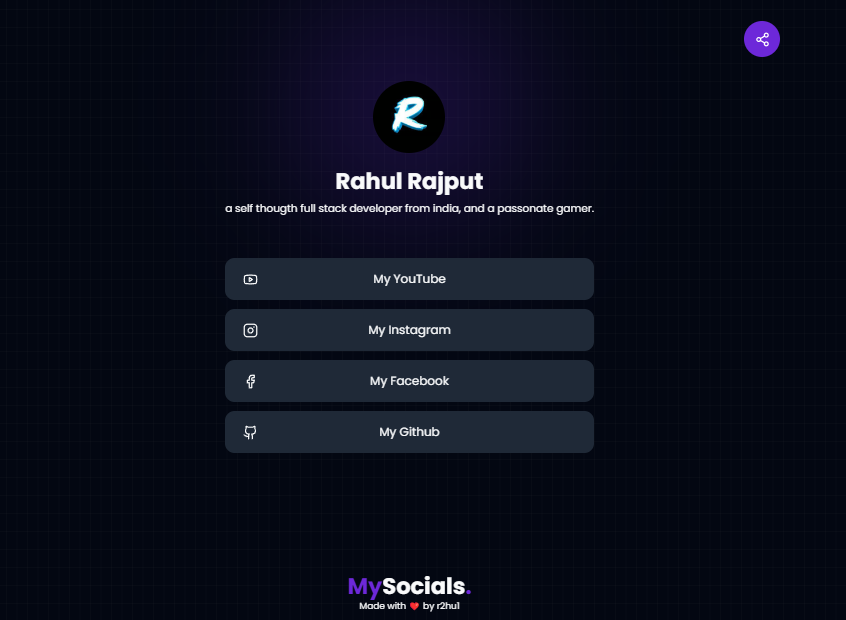
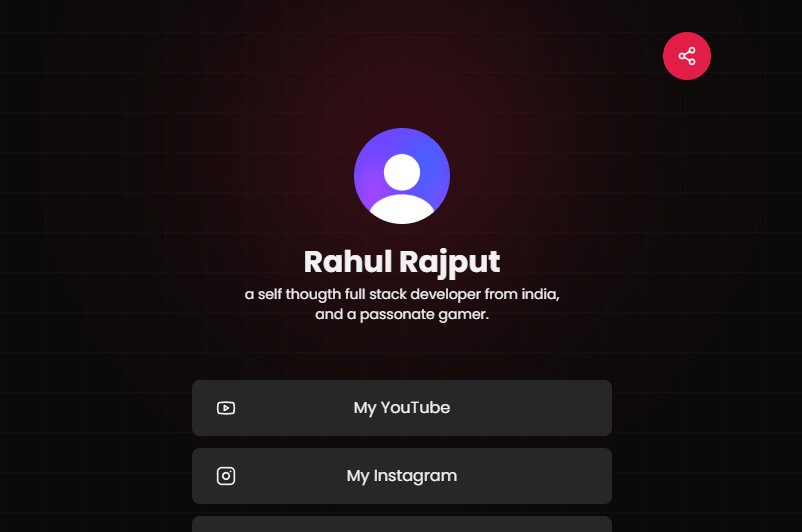
changed theme, organized routes

diff --git a/app/globals.css b/app/globals.css
@@ -2,50 +2,51 @@
 @tailwind components;
 @tailwind utilities;
 
+
 @layer base {
   :root {
     --background: 0 0% 100%;
-    --foreground: 224 71.4% 4.1%;
+    --foreground: 240 10% 3.9%;
     --card: 0 0% 100%;
-    --card-foreground: 224 71.4% 4.1%;
+    --card-foreground: 240 10% 3.9%;
     --popover: 0 0% 100%;
-    --popover-foreground: 224 71.4% 4.1%;
-    --primary: 262.1 83.3% 57.8%;
-    --primary-foreground: 210 20% 98%;
-    --secondary: 220 14.3% 95.9%;
-    --secondary-foreground: 220.9 39.3% 11%;
-    --muted: 220 14.3% 95.9%;
-    --muted-foreground: 220 8.9% 46.1%;
-    --accent: 220 14.3% 95.9%;
-    --accent-foreground: 220.9 39.3% 11%;
+    --popover-foreground: 240 10% 3.9%;
+    --primary: 346.8 77.2% 49.8%;
+    --primary-foreground: 355.7 100% 97.3%;
+    --secondary: 240 4.8% 95.9%;
+    --secondary-foreground: 240 5.9% 10%;
+    --muted: 240 4.8% 95.9%;
+    --muted-foreground: 240 3.8% 46.1%;
+    --accent: 240 4.8% 95.9%;
+    --accent-foreground: 240 5.9% 10%;
     --destructive: 0 84.2% 60.2%;
-    --destructive-foreground: 210 20% 98%;
-    --border: 220 13% 91%;
-    --input: 220 13% 91%;
-    --ring: 262.1 83.3% 57.8%;
-    --radius: 0.8rem;
+    --destructive-foreground: 0 0% 98%;
+    --border: 240 5.9% 90%;
+    --input: 240 5.9% 90%;
+    --ring: 346.8 77.2% 49.8%;
+    --radius: 0.5rem;
   }
 
   .dark {
-    --background: 224 71.4% 4.1%;
-    --foreground: 210 20% 98%;
-    --card: 224 71.4% 4.1%;
-    --card-foreground: 210 20% 98%;
-    --popover: 224 71.4% 4.1%;
-    --popover-foreground: 210 20% 98%;
-    --primary: 263.4 70% 50.4%;
-    --primary-foreground: 210 20% 98%;
-    --secondary: 215 27.9% 16.9%;
-    --secondary-foreground: 210 20% 98%;
-    --muted: 215 27.9% 16.9%;
-    --muted-foreground: 217.9 10.6% 64.9%;
-    --accent: 215 27.9% 16.9%;
-    --accent-foreground: 210 20% 98%;
+    --background: 20 14.3% 4.1%;
+    --foreground: 0 0% 95%;
+    --card: 24 9.8% 10%;
+    --card-foreground: 0 0% 95%;
+    --popover: 0 0% 9%;
+    --popover-foreground: 0 0% 95%;
+    --primary: 346.8 77.2% 49.8%;
+    --primary-foreground: 355.7 100% 97.3%;
+    --secondary: 240 3.7% 15.9%;
+    --secondary-foreground: 0 0% 98%;
+    --muted: 0 0% 15%;
+    --muted-foreground: 240 5% 64.9%;
+    --accent: 12 6.5% 15.1%;
+    --accent-foreground: 0 0% 98%;
     --destructive: 0 62.8% 30.6%;
-    --destructive-foreground: 210 20% 98%;
-    --border: 215 27.9% 16.9%;
-    --input: 215 27.9% 16.9%;
-    --ring: 263.4 70% 50.4%;
+    --destructive-foreground: 0 85.7% 97.3%;
+    --border: 240 3.7% 15.9%;
+    --input: 240 3.7% 15.9%;
+    --ring: 346.8 77.2% 49.8%;
   }
 }
 

diff --git a/app/(user)/dashboard/profile/page.jsx b/app/(user)/dashboard/profile/page.jsx
@@ -1,5 +1,3 @@
-import Footer from "@/components/Footer";
-import Header from "../../_components/Header";
 import TopNav from "../../_components/TopNav";
 import { Input } from "@/components/ui/input";
 import { ClerkLoaded, ClerkLoading, currentUser } from "@clerk/nextjs";
@@ -19,7 +17,6 @@ export default async function Page() {
 
     return (
         <div>
-            <Header />
             <TopNav active={["Profile"]} link="" />
 
             <div className="py-10 px-7 md:px-20 lg:px-32 mb-14">
@@ -36,16 +33,16 @@ export default async function Page() {
                 <ClerkLoaded>
                     <div className="grid gap-2 mt-5 lg:px-40">
                         <Label htmlFor="firstName" className="mt-3">First Name</Label>
-                        <Input id="firstName" value={firstName} readonly />
+                        <Input disabled id="firstName" value={firstName} readonly />
 
                         <Label htmlFor="lname" className="mt-3">Last Name</Label>
-                        <Input id="lname" value={lastName || "Update Lastname From Google Account"} readonly />
+                        <Input disabled id="lname" value={lastName || "Update Lastname From Google Account"} readonly />
 
                         <Label htmlFor="email" className="mt-3">Email</Label>
-                        <Input id="email" value={emailAddresses[0].emailAddress} readonly />
+                        <Input disabled id="email" value={emailAddresses[0].emailAddress} readonly />
                     </div>
                     <div className="mt-5 grid gap-2 lg:px-40">
-                        <Button disabled>Edit</Button>
+                        <Button asChild><Link href="/user-profile">Edit</Link></Button>
                         <p className="text-xs text-center">To edit your profile visit <Link href="/user-profile/profile" className="text-primary hover:underline">User Profile</Link><span className="text-red-600"> *</span></p>
                     </div>
                 </ClerkLoaded>
@@ -66,9 +63,12 @@ export default async function Page() {
                         <Skeleton className="h-5 w-24 mt-3" />
                         <Skeleton className="h-10 w-full" />
                     </div>
+                    <div className="mt-5 grid gap-2 lg:px-40">
+                        <Skeleton className="h-10 w-full mt-3" />
+                        <Skeleton className="h-4 mx-auto w-full max-w-[250px]" />
+                    </div>
                 </ClerkLoading>
             </div>
-            <Footer />
         </div>
     )
 }

diff --git a/app/(user)/_components/TopNav.jsx b/app/(user)/_components/TopNav.jsx
@@ -26,24 +26,14 @@ export default function TopNav({ active = [], showBack = false, link }) {
     });
 
     const activeClass = "bg-primary text-white";
-    const primaryClass = "h-10 px-4 rounded-full bg-secondary hover:bg-primary hover:text-white transition flex items-center justify-center text-sm"
+    const primaryClass = "h-10 px-4 rounded-full dark:border-none border bg-secondary hover:bg-primary hover:text-white transition flex items-center justify-center text-sm"
     return (
         <div className="md:px-20 lg:px-32 py-3 px-6">
-            {show ? (
-                <div className="flex flex-wrap gap-2 items-center">
-                    <Link href="/dashboard/profile" className={cn(primaryClass, active.includes("Profile") && activeClass)}>Profile</Link>
-                    <Link href="/dashboard/manage" className={cn(primaryClass, active.includes("Edit") && activeClass)}>{!username ? "Publish Your Page" : "Manage Page"}</Link>
-                    {username && (
-                        <Link target={username ? "_blank" : ""} href={`/${!username ? "username" : username}`} className={cn(primaryClass, active.includes("Visit") && activeClass)}>Your Page</Link>
-                    )}
-                </div>
-            ) : (
-                <div className="flex gap-2 items-center">
-                    <Skeleton className="w-[75px] h-10 rounded-full" />
-                    <Skeleton className="w-32 h-10 rounded-full" />
-                    <Skeleton className="w-[68px] h-10 rounded-full" />
-                </div>
-            )}
+            <div className="flex flex-wrap gap-2 items-center">
+                <Link href="/dashboard/profile" className={cn(primaryClass, active.includes("Profile") && activeClass)}>Profile</Link>
+                <Link href="/dashboard/manage" className={cn(primaryClass, active.includes("Edit") && activeClass)}>Manage Page</Link>
+                <Link target={username ? "_blank" : ""} href={`/${!username ? "#" : username}`} className={cn(primaryClass, active.includes("Visit") && activeClass)}>Your Page</Link>
+            </div>
         </div>
     )
 }

diff --git a/components/Footer.jsx b/components/Footer.jsx
@@ -8,17 +8,17 @@ export default function Footer() {
             <div className="flex justify-between">
                 <div>
                     <Logo />
-                    <p className="text-sm">Built by <a href="https://github.com/r2hu1" className="hover:text-primary hover:underline">r2hu1</a> avilable on <a className="hover:text-primary hover:underline" href="https://github.com/r2hu1/mysocials">github</a>.</p>
+                    <p className="text-xs">Built by <a href="https://github.com/r2hu1" className="hover:text-primary hover:underline">r2hu1</a> avilable on <a className="hover:text-primary hover:underline" href="https://github.com/r2hu1/mysocials">github</a>.</p>
                 </div>
                 <div>
                     <ModeToggle/>
                 </div>
             </div>
             <ul className="text-sm grid gap-1">
-                <li className="hover:underline hover:text-primary"><Link href="https://github.com/r2hu1/mysocials">Fix This Web</Link></li>
-                <li className="hover:underline hover:text-primary"><Link href="https://github.com/r2hu1/mysocials">Report An Issue</Link></li>
+                <li className="hover:underline hover:text-primary text-sm"><Link href="https://github.com/r2hu1/mysocials">Fix This Web</Link></li>
+                <li className="hover:underline hover:text-primary text-sm"><Link href="https://github.com/r2hu1/mysocials">Report An Issue</Link></li>
             </ul>
-            <p className="text-sm">&copy; {new Date().getFullYear()} <Link href="/" className="text-primary hover:underline">MySocials</Link> All Rights Reserved.</p>
+            <p className="text-xs">&copy; {new Date().getFullYear()} <Link href="/" className="text-primary hover:underline">MySocials</Link> All Rights Reserved.</p>
         </footer>
     )
 }

diff --git a/components/Hero.jsx b/components/Hero.jsx
@@ -15,12 +15,12 @@ export default async function Hero() {
                 </p>
             </div>
             <div className="grid place-content-center text-center gap-2">
-                <h1 className="text-3xl font-bold md:text-4xl max-w-lg md:max-w-xl"><span className="bg-primary text-background px-1 rounded">Open-Source</span> link in bio tool for content creaters, developers and enthusiasts<span className="text-primary">.</span></h1>
-                <p className="text-xs max-w-md text-center mx-auto">Simplify and elevate your online presence effortlessly with MySocials, where one link connects to endless opportunities.</p>
+                <h1 className="text-3xl max-w-md md:max-w-2xl md:text-4xl font-medium">Share your every socials in one single accessable link<span className="text-primary">.</span></h1>
+                <p className="text-xs max-w-sm md:max-w-md text-center mx-auto">Simplify and elevate your online presence effortlessly with MySocials, where one link connects to endless opportunities.</p>
             </div>
             <div className="flex items-center justify-center gap-3 mt-7">
                 <Button asChild><Link href={!user ? "/sign-in" : "/dashboard/profile"}>Get Started</Link></Button>
-                <Button variant="outline" asChild><Link href="/r2hu1">View Demo <ArrowRight className="h-4 w-4 -rotate-45 ml-1" /></Link></Button>
+                <Button variant="outline" asChild><Link href="/r2hu1">Demo <ArrowRight className="h-4 w-4 -rotate-45 ml-[2px]" /></Link></Button>
             </div>
             <div className="mt-20 bg-secondary p-1 rounded-lg w-fit mx-auto">
                 <DemoImage/>

diff --git a/app/layout.js b/app/layout.js
@@ -29,20 +29,20 @@ export default function RootLayout({ children }) {
             disableTransitionOnChange
           >
             <NextTopLoader
-              color="#7c3aed"
+              color="#e11d48"
               initialPosition={0.08}
               crawlSpeed={200}
-              height={4}
+              height={3}
               crawl={true}
               showSpinner={false}
               easing="ease"
               speed={200}
-              shadow="0 0 10px #7c3aed,0 0 5px #7c3aed"
+              shadow="0 0 0px #e11d48,0 0 0px #e11d48"
               template='<div class="bar" role="bar"><div class="peg"></div></div><div class="spinner" role="spinner"><div class="spinner-icon"></div></div>'
               zIndex={1600}
               showAtBottom={false}
             />
-            <div className="absolute inset-0 -z-10 h-full w-full bg-background bg-[linear-gradient(to_right,#8080800a_1px,transparent_1px),linear-gradient(to_bottom,#8080800a_1px,transparent_1px)] bg-[size:14px_24px]"><div className="absolute left-0 right-0 top-0 -z-10 m-auto h-[310px] w-[310px] rounded-full bg-primary opacity-20 dark:opacity-25 blur-[100px]"></div></div>
+            <div className="absolute inset-0 -z-10 h-[600px] w-full bg-background bg-[linear-gradient(to_right,#8080800a_1px,transparent_1px),linear-gradient(to_bottom,#8080800a_1px,transparent_1px)] bg-[size:40px_40px]"><div className="absolute left-0 right-0 top-0 -z-10 m-auto h-[310px] w-[310px] rounded-full bg-primary opacity-10 dark:opacity-25 blur-[100px]"></div></div>
             {children}
             <Toaster />
           </ThemeProvider>

diff --git a/app/(user)/_components/Header.jsx b/app/(user)/_components/Header.jsx
@@ -1,23 +1,19 @@
-import Link from "next/link";
-import { ClerkLoading, SignOutButton, UserButton, currentUser } from "@clerk/nextjs";
+import { ClerkLoading, SignOutButton, UserButton } from "@clerk/nextjs";
 import { Button } from "@/components/ui/button";
 import Logo from "@/components/Logo";
 import { Skeleton } from "@/components/ui/skeleton"
 
 
 export default async function Header() {
-    const user = await currentUser();
     return (
         <header className="flex justify-between items-center py-[22px] px-6 md:px-20 lg:px-32">
             <div>
                 <Logo />
             </div>
-            <div className="flex gap-3 items-center">
-                <Button size="icon" asChild><UserButton/></Button>
-                <SignOutButton><Button>Logout</Button></SignOutButton>
+            <div className="flex gap-2 items-center">
+                <UserButton afterSignOutUrl="/" />
                 <ClerkLoading className="flex gap-3 items-center">
-                    <Skeleton className="w-10 h-10 rounded-full"/>
-                    <Skeleton className="w-20 h-10"/>
+                    <Skeleton className="w-10 h-10 rounded-full" />
                 </ClerkLoading>
             </div>
         </header>

diff --git a/app/(user)/dashboard/manage/page.jsx b/app/(user)/dashboard/manage/page.jsx
@@ -1,12 +1,6 @@
-import Footer from "@/components/Footer";
-import Header from "../../_components/Header";
 import TopNav from "../../_components/TopNav";
 import { Label } from "@/components/ui/label";
-import { Input } from "@/components/ui/input";
 import { currentUser } from "@clerk/nextjs";
-import { Separator } from "@/components/ui/separator"
-import { Textarea } from "@/components/ui/textarea";
-import { Button } from "@/components/ui/button";
 import ManageForm from "../../_components/ManageForm";
 import Link from "next/link";
 
@@ -20,7 +14,6 @@ export default async function Page() {
     const { imageUrl, emailAddresses, firstName, lastName } = await currentUser();
     return (
         <div>
-            <Header />
             <TopNav active={["Edit"]} link="" />
             <div className="py-10 px-7 md:px-20 lg:px-32 mb-14">
                 <div>
@@ -36,7 +29,6 @@ export default async function Page() {
                     <ManageForm/>
                 </div>
             </div>
-            <Footer />
         </div>
     )
 }

diff --git a/app/(user)/_components/ManageForm.jsx b/app/(user)/_components/ManageForm.jsx
@@ -106,14 +106,9 @@ export default function ManageForm() {
 
 
                     <div className="flex gap-2 mt-8">
-                        <Button type="button" className="w-full" variant="outline" onClick={() => setIsEdit(!isEdit)}>{isEdit ? "Edit" : "Cancel"}</Button>
+                        <Button type="button" className="w-full max-w-[100px]" variant="outline" onClick={() => setIsEdit(!isEdit)}>{isEdit ? "Edit" : "Cancel"}</Button>
                         <Button className="w-full" type="submit">{isPublished ? (<LoaderIcon className="w-4 h-4 animate-spin" />) : "Publish"}</Button>
                     </div>
-                    {username && (
-                        <div className="mt-5 flex gap-2">
-                            <Button className="w-full mx-auto" asChild><Link href={`/${username}`}>View Your Page</Link></Button>
-                        </div>
-                    )}
                 </div>
             )}
 

diff --git a/components/ModeToggle.jsx b/components/ModeToggle.jsx
@@ -18,9 +18,9 @@ export function ModeToggle() {
   return (
     <DropdownMenu>
       <DropdownMenuTrigger asChild>
-        <Button variant="outline" size="icon">
-          <Sun className="h-[1.2rem] w-[1.2rem] rotate-0 scale-100 transition-all dark:-rotate-90 dark:scale-0" />
-          <Moon className="absolute h-[1.2rem] w-[1.2rem] rotate-90 scale-0 transition-all dark:rotate-0 dark:scale-100" />
+        <Button variant="ghost" size="icon" className="h-8 w-8">
+          <Sun className="h-[1rem] w-[1rem] rotate-0 scale-100 transition-all dark:-rotate-90 dark:scale-0" />
+          <Moon className="absolute h-[1rem] w-[1rem] rotate-90 scale-0 transition-all dark:rotate-0 dark:scale-100" />
           <span className="sr-only">Toggle theme</span>
         </Button>
       </DropdownMenuTrigger>

diff --git a/app/(auth)/(routes)/sign-up/[[...sign-up]]/page.jsx b/app/(auth)/(routes)/sign-up/[[...sign-up]]/page.jsx
@@ -1,6 +1,5 @@
 "use client";
-import { Skeleton } from "@/components/ui/skeleton";
-import { ClerkLoaded, ClerkLoading, SignUp } from "@clerk/nextjs";
+import { SignUp } from "@clerk/nextjs";
 import { dark } from '@clerk/themes';
 import { useTheme } from "next-themes"
 
@@ -8,12 +7,6 @@ export default function Page() {
   const { resolvedTheme } = useTheme();
   let currentTheme = resolvedTheme == "dark" ? dark : null;
   return (
-    <main className="fixed top-0 left-0 right-0 h-full w-full flex justify-center items-center">
-      <ClerkLoading>
-        <Skeleton className="h-[264px] w-[300px]" />
-      </ClerkLoading>
-      <SignUp appearance={{ baseTheme: currentTheme }} />
-
-    </main>
+    <SignUp appearance={{ baseTheme: currentTheme }} />
   );
 }

diff --git a/app/(auth)/(routes)/sign-in/[[...sign-in]]/page.jsx b/app/(auth)/(routes)/sign-in/[[...sign-in]]/page.jsx
@@ -1,6 +1,5 @@
 "use client";
-import { Skeleton } from "@/components/ui/skeleton";
-import { ClerkLoading, SignIn } from "@clerk/nextjs";
+import { SignIn } from "@clerk/nextjs";
 import { dark } from '@clerk/themes';
 import { useTheme } from "next-themes"
 
@@ -8,11 +7,6 @@ export default function Page() {
   const { resolvedTheme } = useTheme();
   let currentTheme = resolvedTheme == "dark" ? dark : null;
   return (
-    <main className="fixed top-0 left-0 right-0 h-full w-full flex justify-center items-center">
-      <SignIn appearance={{ baseTheme: currentTheme }} />
-      <ClerkLoading>
-        <Skeleton className="h-[264px] w-[300px]" />
-      </ClerkLoading>
-    </main>
+    <SignIn appearance={{ baseTheme: currentTheme }} />
   );
 }
